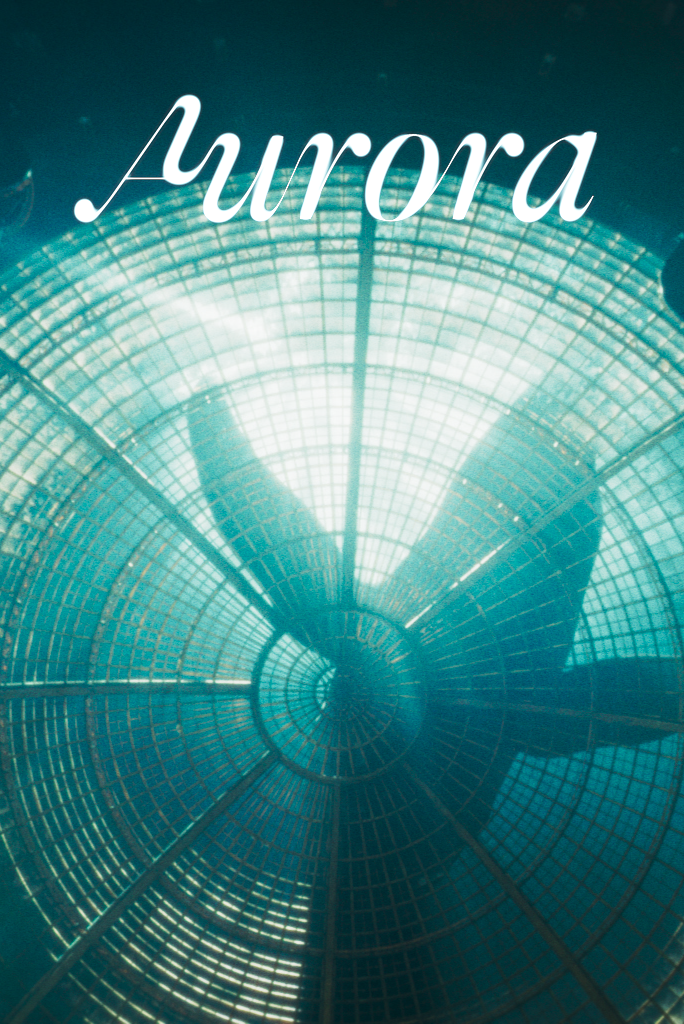
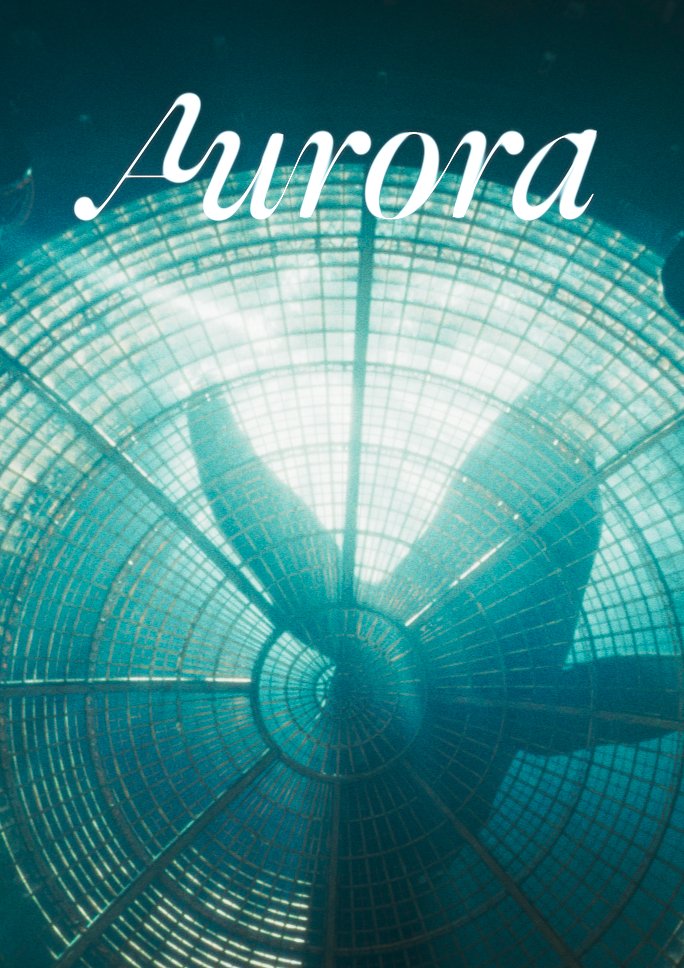
Kirsch

diff --git a/themes/tillmanns-theme/assets/scss/_vars.scss b/themes/tillmanns-theme/assets/scss/_vars.scss
@@ -35,5 +35,9 @@ $serif-font: -times-new-roman;
     background-color: #424242;
 }
 
+.bg-Kir {
+    background-color: #3b212f;
+}
+
 // Legacy
 $light-bg: #535353;

diff --git a/content/Kirschkerne/index.md b/content/Kirschkerne/index.md
@@ -1,0 +1,144 @@
+---
+title: "Kirschkerne im Bauch"
+date: '2026-03-20'
+layout: project
+programs_used: avid
+bgcolor: "bg-Kir"
+build:
+    publishResources: false
+---
+
+#### Short film supported by FFA
+
+**Drama  |  18 min  |  2025**
+
+{{< own_gallery text="© Valerie Karbjinski - 252 Films" rowHeight=150 >}}
+    {{< media src="media/Kirsch-Still_1.jpg" >}}
+    {{< media src="media/Kirsch-Still_2.jpg" >}}
+    {{< media src="media/Kirsch-Still_3.jpg" >}}
+    {{< media src="media/Kirsch-Still_4.jpg" >}}
+{{< /own_gallery >}}
+
+<!--
+{{< logo name="Laurel_Wreath" >}}
+{{< logo name="Laurel_Wreath" >}}
+-->
+
+{{< spacer >}}
+
+{{< row >}}
+{{< text >}}
+##### Edited on 
+{{< /text >}}
+{{< logo name="AVID Media Composer" >}}
+{{< /row >}}
+
+{{< media src="media/Timeline_Kirsch.png" scale=75 >}}
+
+{{< spacer >}}
+
+Yuna and her best friend are inseparable. But when she suddenly moves away, Yuna is left behind alone. To escape the loneliness, she imagines a mysterious boy named Emil. Can Yuna overcome her grief with his help?
+
+{{< spacer >}}
+
+{{< row class="specific-ratio" stack="true" >}}
+
+{{< text >}}
+### Festivals
+
+{{< spacer >}}
+
+- 26. Landshuter Kurzfilm Festival
+
+{{< /text >}}
+
+{{< twocol >}}
+
+&nbsp;  
+
+**Director & Screenplay**
+
+**Producer**
+
+**DoP**
+
+**Production Design**
+
+**Costume**
+
+&nbsp;  
+
+**Hair & Makeup**
+
+**Sound**
+
+**Sounddesign & Mixing**
+
+**Music**
+
+**Gaffer**
+
+**Colorist**
+
+**Compositing Artist**
+
+&nbsp;
+
+&nbsp;
+
+&nbsp;
+
+**Yuna**
+
+**Neele**
+
+**Maryam**
+
+**Emil**
+
+---
+
+&nbsp;  
+
+Ayleen Tunçer
+
+Valérie Karbjinski
+
+Melissa Guidi
+
+Karin Betzler
+
+Irina Spreckelmeyer
+
+Inga Zink
+
+Lilith Franz
+
+Rhys Anderson
+
+Alex Parker
+
+Manuel Seum
+
+Nikita Kassel
+
+Maxime Denmartin
+
+David Kaiser
+
+Simon Guiseppe Floris
+
+&nbsp;
+
+&nbsp;
+
+Amrita Trusova
+
+Jola Marie Fritze
+
+Dagna Litzenberger-Vinet
+
+Ole Sudik
+
+{{< /twocol >}}
+{{< /row >}}

diff --git a/content/Headspace/index.md b/content/Headspace/index.md
@@ -44,13 +44,15 @@ Victoria’s everyday stress is visualized through a striking metaphor: a ceilin
 {{< row class="specific-ratio" stack="true" >}}
 
 {{< text >}}
-<!--
-Festival 
 
-Festival 
+### Festivals
 
-Festival
--->
+{{< spacer >}}
+
+- Spotlight - Festival für Bewegtbildkommunikation 
+    - Winner Jury Award Silver
+    - Winner Audience Award Gold
+
 {{< /text >}}
 
 {{< twocol >}}

diff --git a/content/tuifl/index.md b/content/tuifl/index.md
@@ -44,13 +44,17 @@ Jakob and his mother live alone in a hut, in the middle of the South Tyrolean mo
 {{< row class="specific-ratio" stack="true" >}}
 
 {{< text >}}
-<!--
-Festival 
 
-Festival 
+### Festivals
 
-Festival
--->
+{{< spacer >}}
+
+- Landshuter Kurzfilm Festival
+
+- Shorts Film Festival Offenburg
+
+- Film Festival Bozen
+
 {{< /text >}}
 
 {{< twocol >}}

diff --git a/content/bubblegum/index.md b/content/bubblegum/index.md
@@ -62,6 +62,9 @@ Nate is trying to relax, his date with Kayla is coming up. But when his original
 {{< /text >}}
 
 {{< twocol >}}
+
+&nbsp;  
+
 **Director**
 
 **Screenplay**
@@ -89,6 +92,8 @@ Nate is trying to relax, his date with Kayla is coming up. But when his original
 **Kayla**
 
 ---
+
+&nbsp;  
 
 Madlen Medvedovskyy
 

diff --git a/content/about/index.md b/content/about/index.md
@@ -8,6 +8,11 @@ layout: about
 
 {{< spacer >}}
 
+#### represented by [@mapberlin](https://m-a-p.berlin)
+###### bookings via hello@m-a-p.berlin
+
+{{< spacer >}}
+
 {{< buttons >}}
 <a href="https://www.crew-united.com/de/Tillmann-Seiffert_646360.html"  target="_blank" rel="noopener noreferrer">Crew United</a>
 

diff --git a/content/onset/_index.md b/content/onset/_index.md
@@ -35,6 +35,8 @@ build:
 |      | Der Statist | Short film | 1st AC |
 |      | Shut Up And Suffer | Short film | 1st AC |
 | 2025 | Letterboxd | Spec Spot | 1st AC |
+| 2026 | Ein deutscher Film | Short film | 2nd AC |
+|      | Holy Ship | Short film | 1st AC |
 
 {{< /table >}}
 
